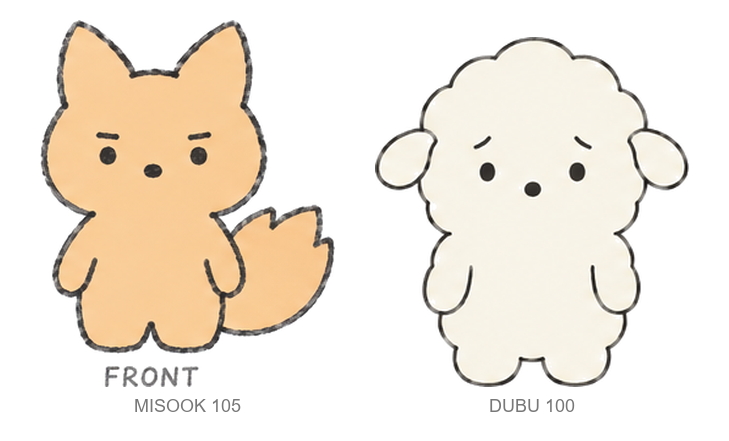
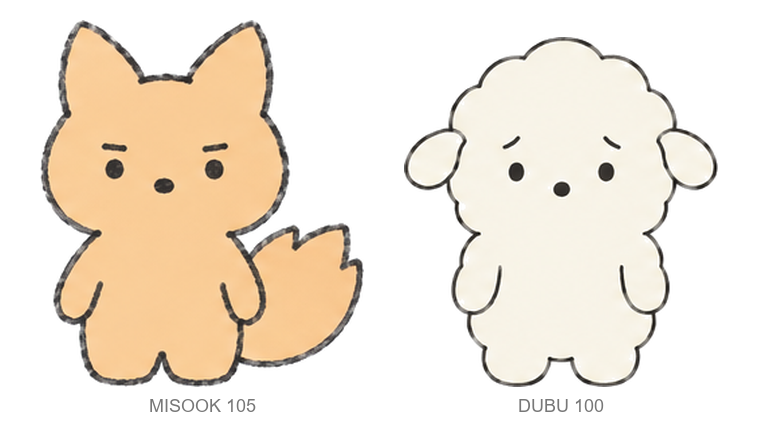
lineup.py: 정면 도와 연결된 성분만 크롭해 캡션 유입 방지 (연필선 시트 대응)

diff --git a/scripts/lineup.py b/scripts/lineup.py
@@ -54,14 +54,22 @@ def front_figure(sheet):
         y1 = y
     a = band[y0:y1 + 1]
     ok = (a < 240).any(axis=2)
-    cols = np.where(ok.any(axis=0))[0]
+    # 캡션(FRONT 글자)은 도와 떨어져 있으므로, 중앙 열 최상단 픽셀에서 자란 연결 성분만 남긴다
+    ok2 = ok.copy()
+    for _ in range(3):
+        ok2 = ok2 | np.roll(ok2, 1, 0) | np.roll(ok2, -1, 0) | np.roll(ok2, 1, 1) | np.roll(ok2, -1, 1)
     cx = int(W / 8)
-    xs = [c for c in cols if c <= cx]; x0 = cx
-    while x0 - 1 in cols: x0 -= 1
-    x1 = cx
-    while x1 + 1 in cols: x1 += 1
-    out = a[:, x0:x1 + 1].copy()
-    out[~ok[:, x0:x1 + 1]] = 255
+    top = np.where(ok[:, cx])[0][0]
+    comps = _components(ok2)
+    m = None
+    for pts, cy0, cy1, cx0, cx1 in comps:
+        if cy0 <= top + 3 <= cy1 and cx0 <= cx <= cx1:
+            m = np.zeros_like(ok); ys = [q[0] for q in pts]; xs = [q[1] for q in pts]; m[ys, xs] = True; break
+    m = (m & ok) if m is not None else ok
+    ys, xs = np.where(m)
+    yy0, yy1, x0, x1 = ys.min(), ys.max(), xs.min(), xs.max()
+    out = a[yy0:yy1 + 1, x0:x1 + 1].copy()
+    out[~m[yy0:yy1 + 1, x0:x1 + 1]] = 255
     return Image.fromarray(out)
 
 
